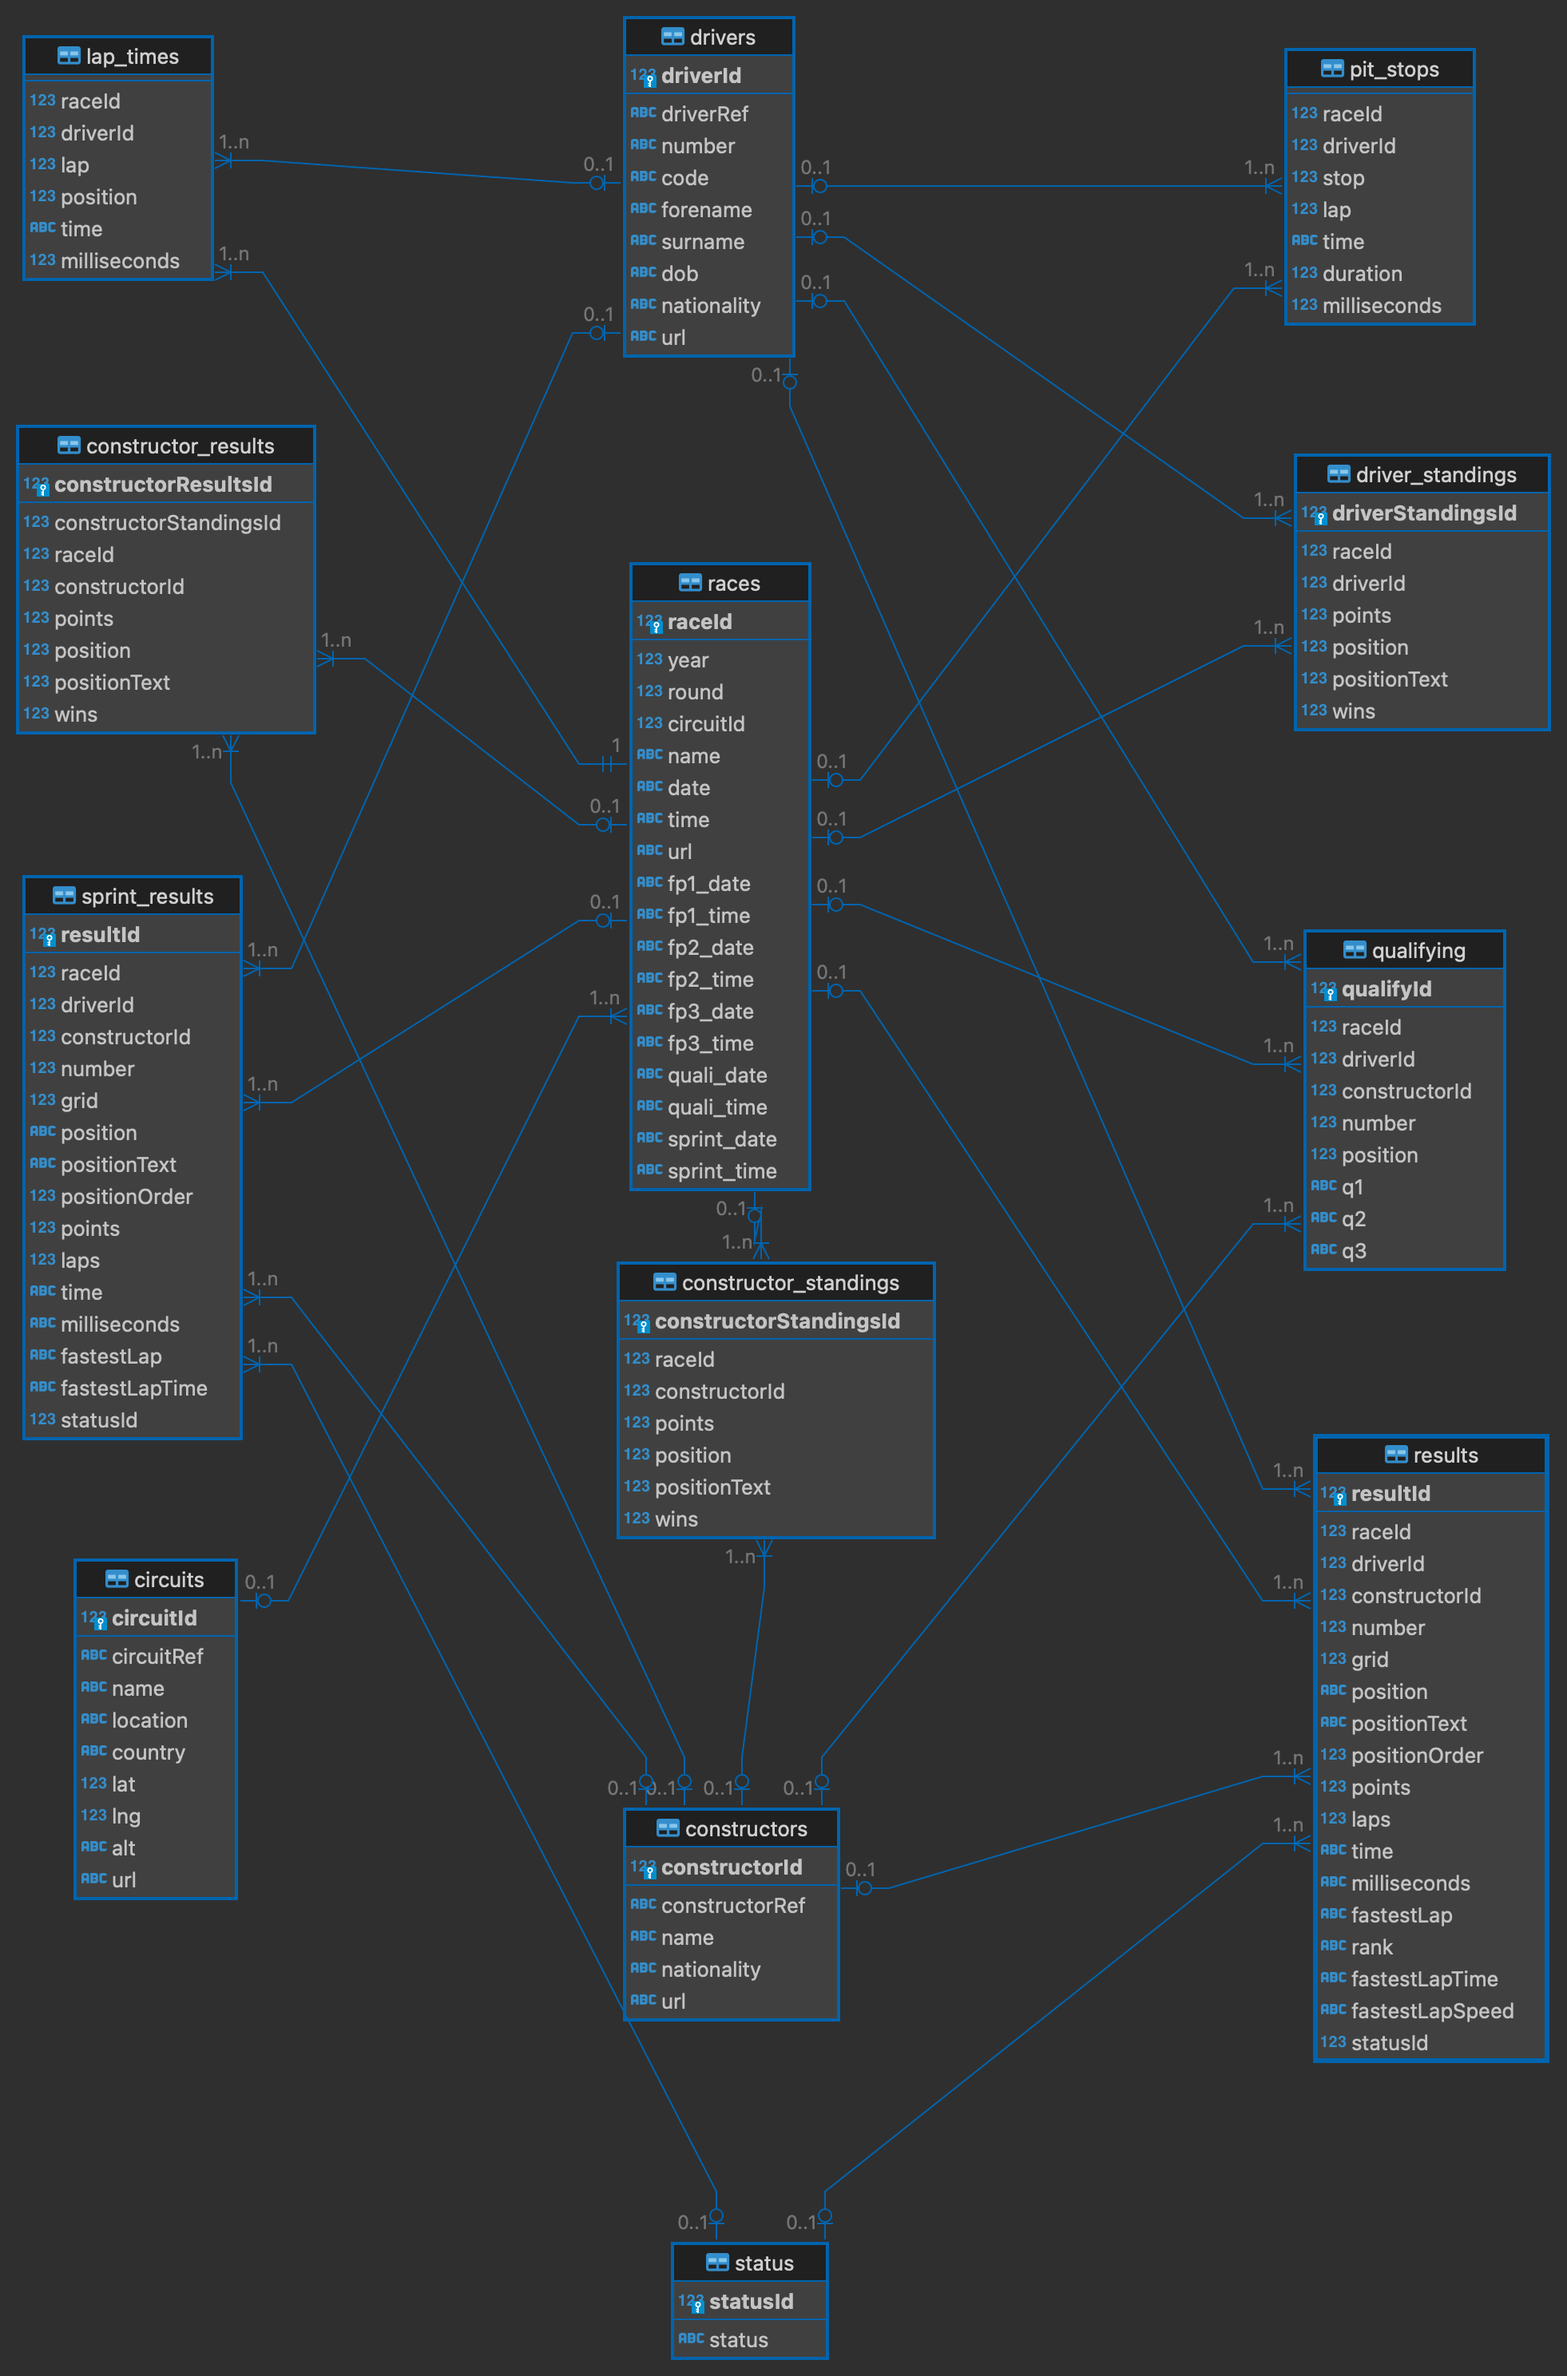
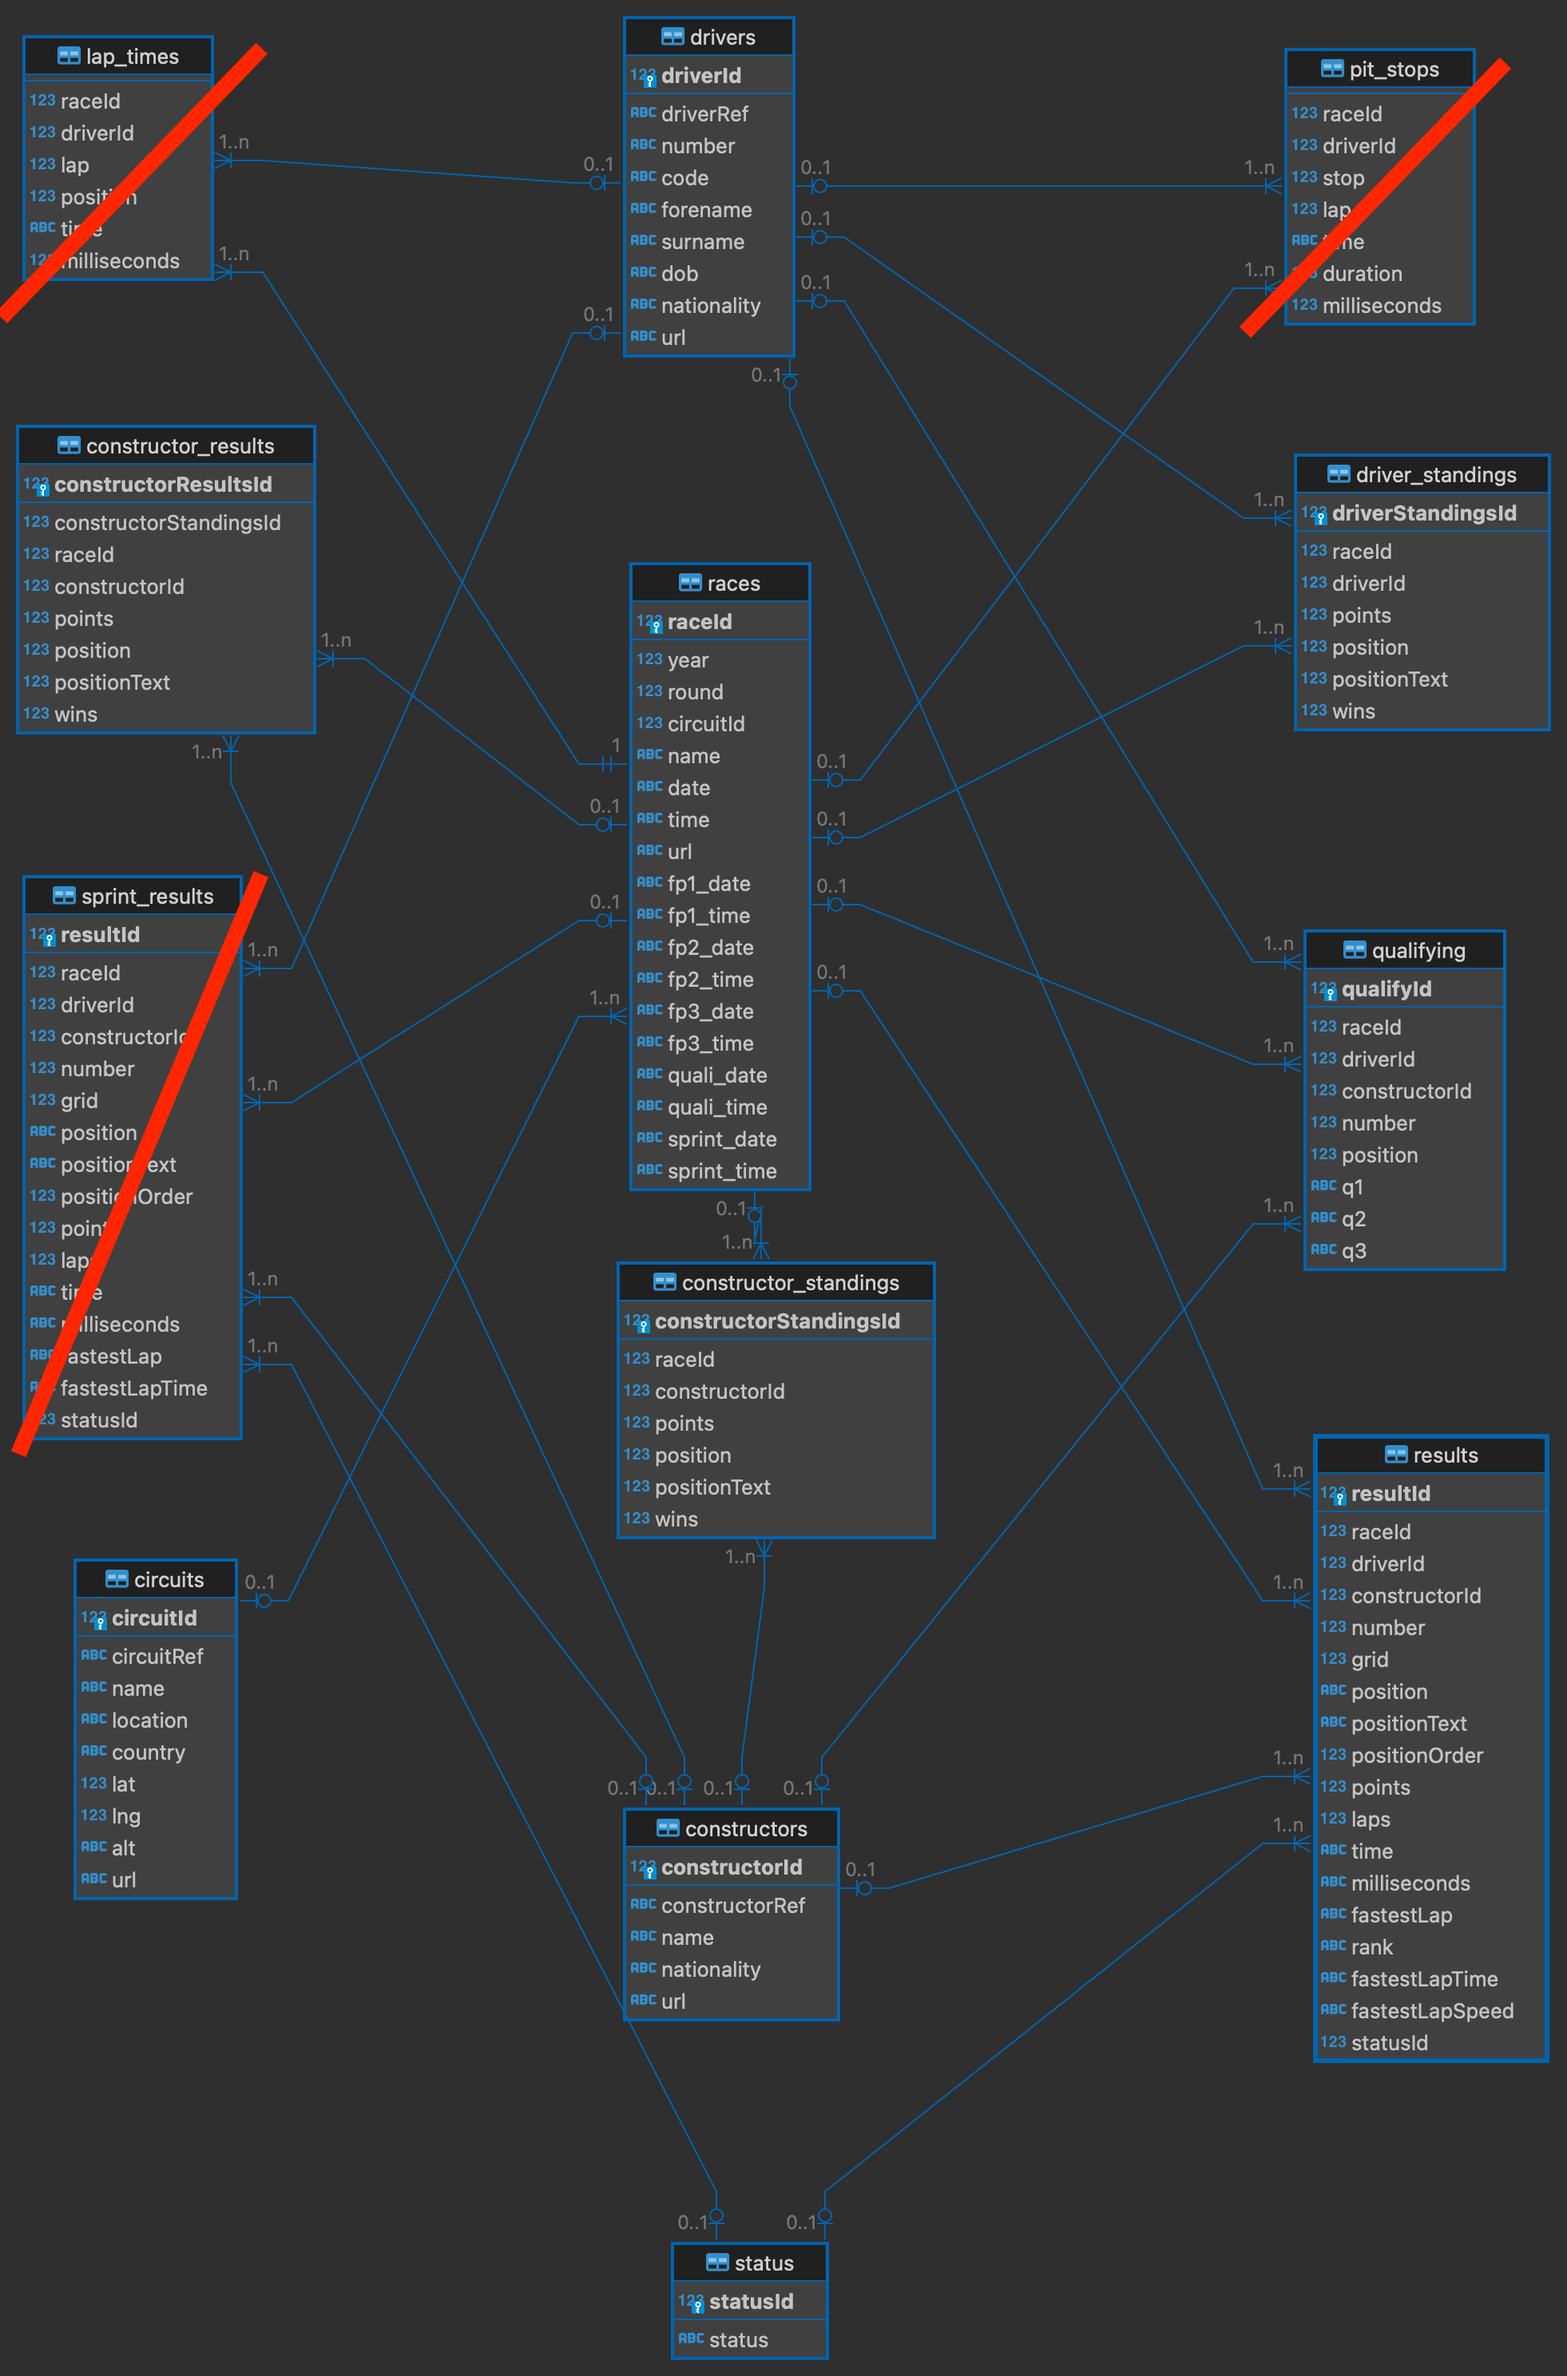
er exp

diff --git a/README.md b/README.md
@@ -46,5 +46,9 @@ First - load each file and examine its contents. Check what columns they have, h
 
 ### ER diagram of F1 Data
 
+This shows nearly full dataset. One table relating season year to its wiki page was not added as it is unconnected to the rest of the dataset and provides no useful information for our problem. 
+
+3 tables have ben crossed out to show which data won't be used at he beginning.
+
 ![ER diagram of F1](f1_dataset/F1_ER.png)  
 
